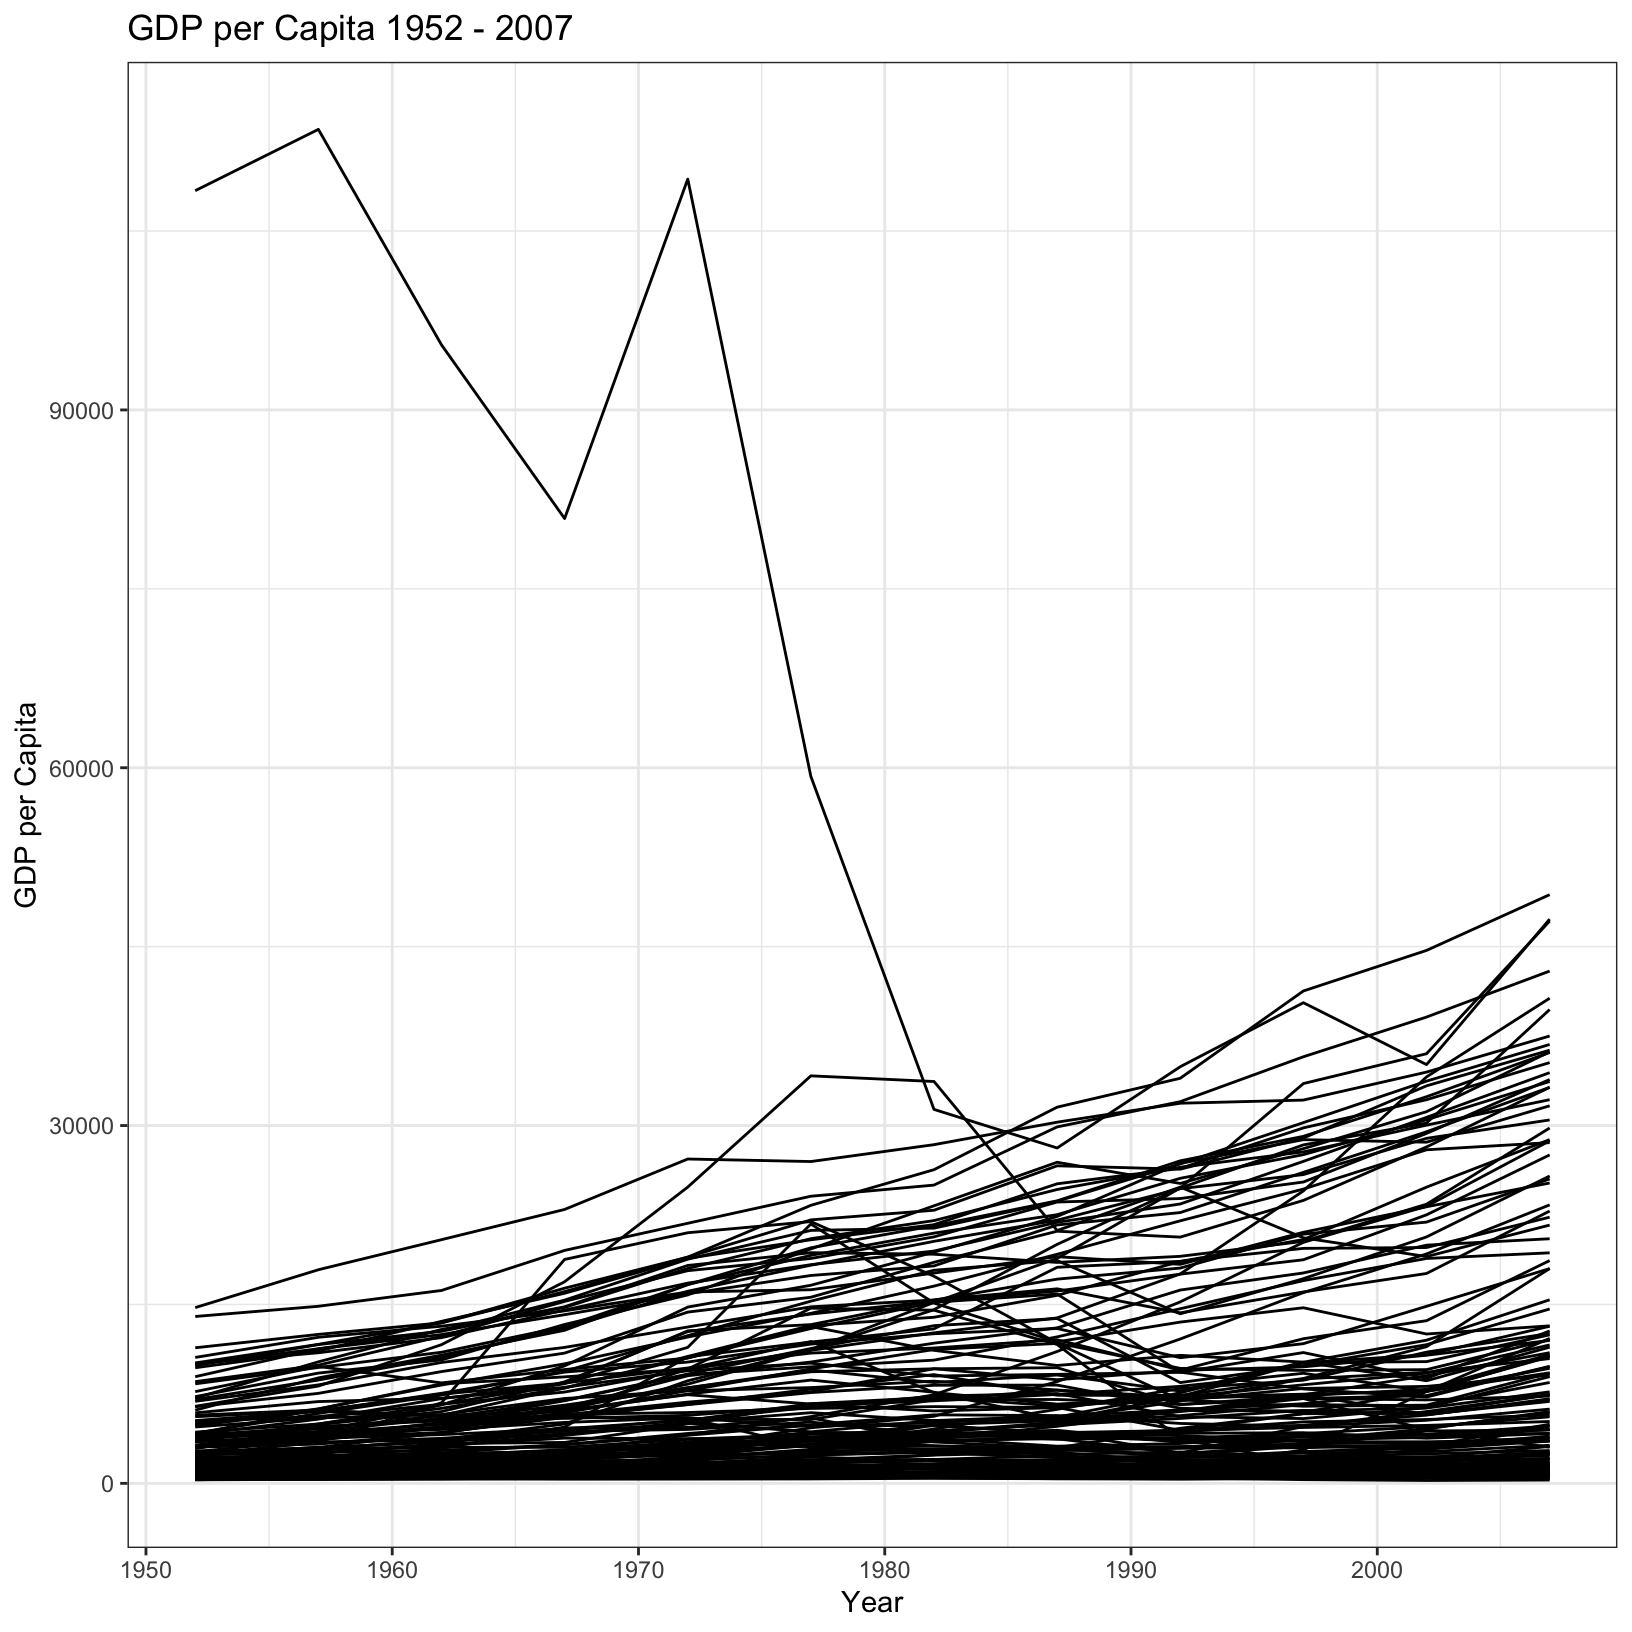
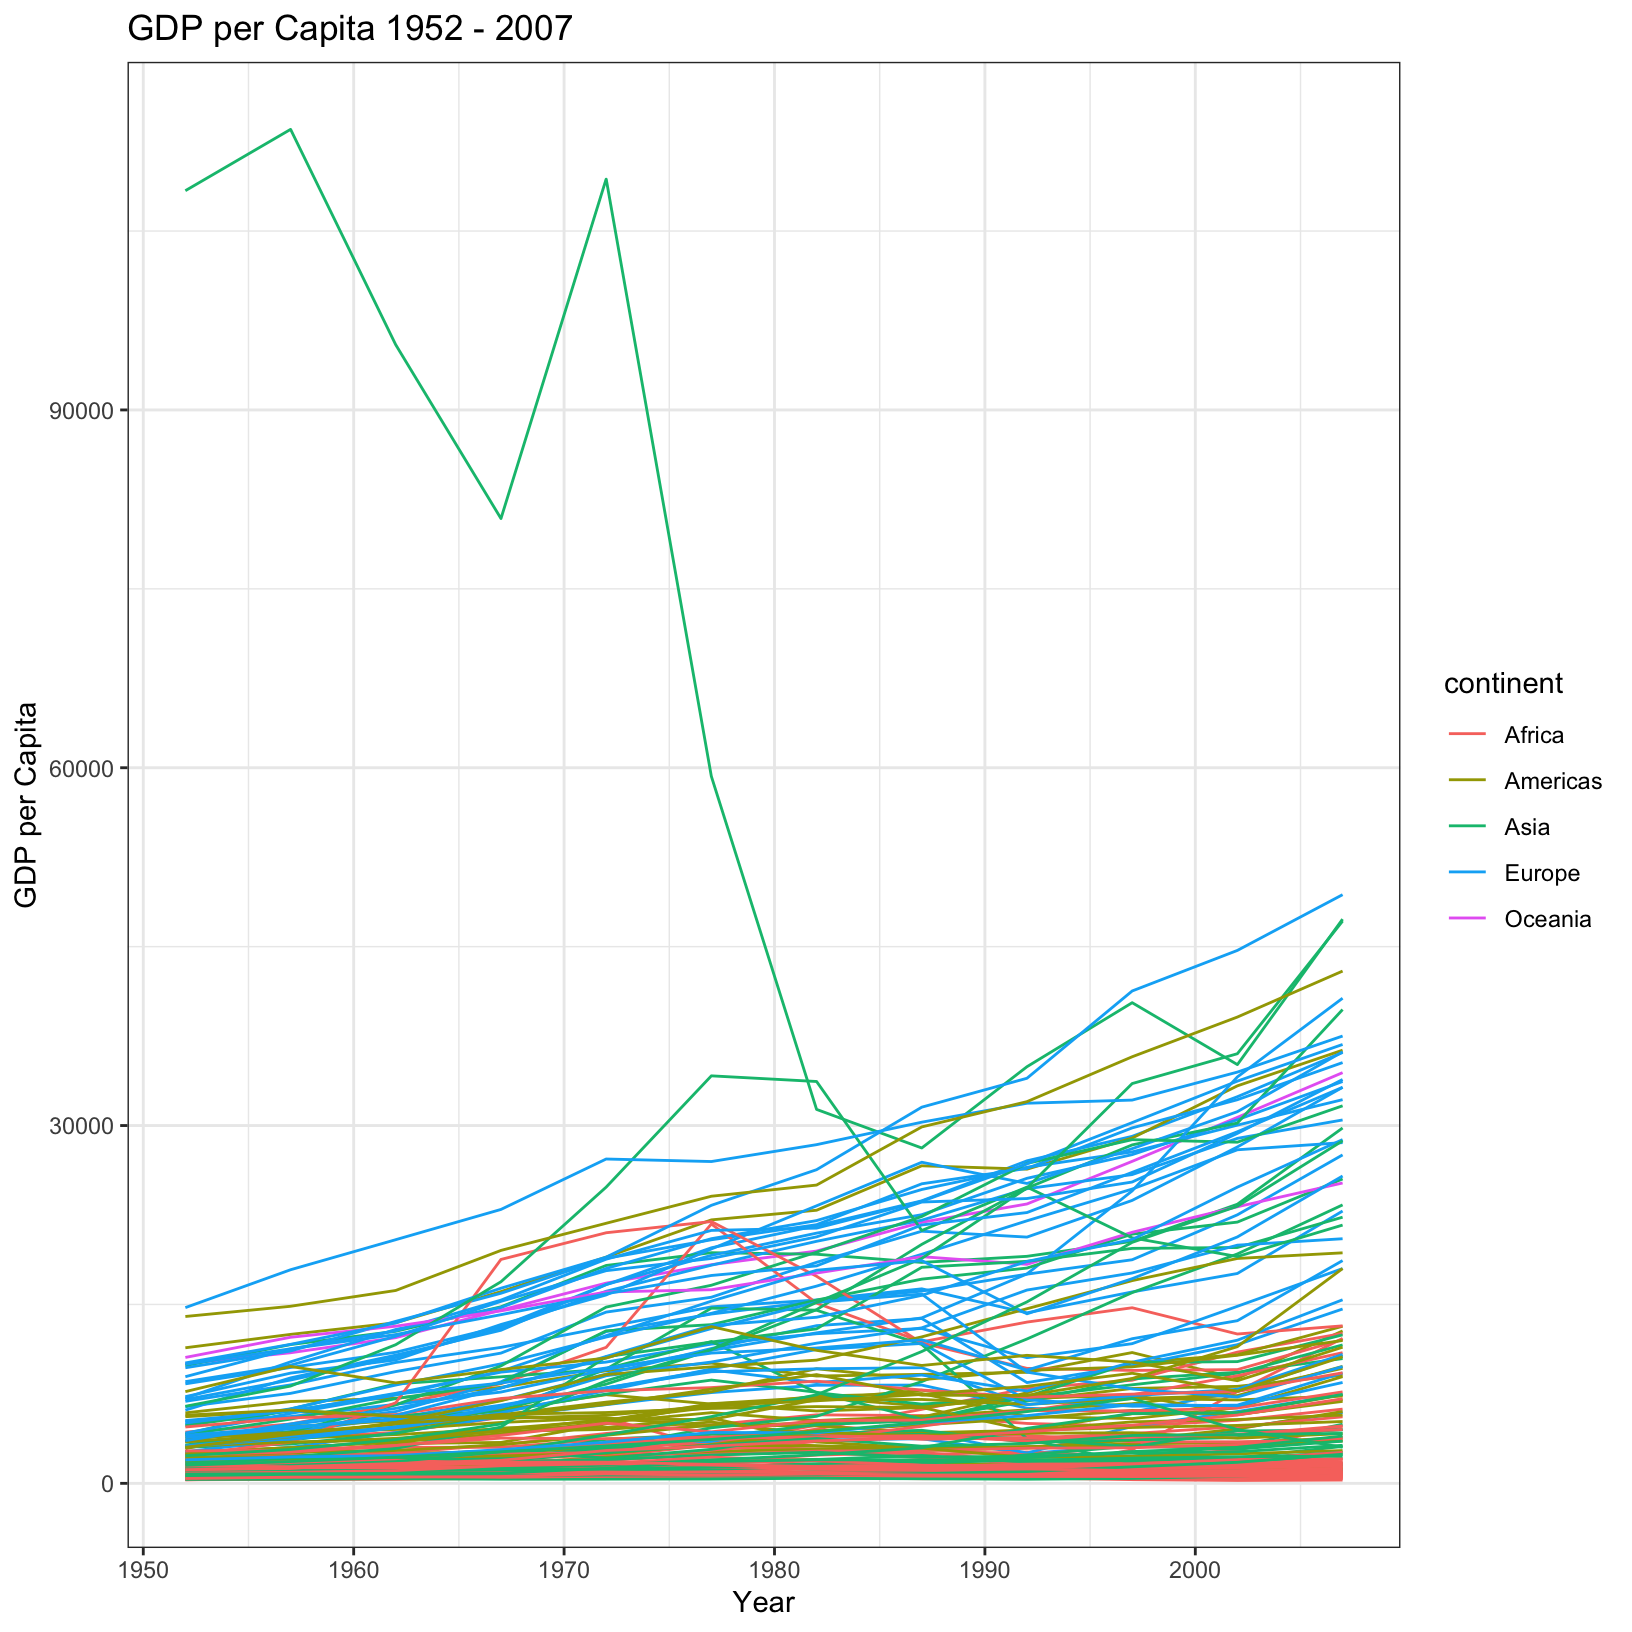
Finalize exercises with motivations

diff --git a/html/r-02-exploration-dplyr.html b/html/r-02-exploration-dplyr.html
@@ -398,7 +398,7 @@ to load the <code>gapminder_1997</code> data. Let’s do that again:</p>
 <pre class="r"><code>library(tidyverse)
 gapminder_1997 = read_csv(&#39;data/gapminder_1997.csv&#39;)</code></pre>
 <pre><code>Rows: 142 Columns: 6
-── Column specification ───────────────────────────────────────────────────────────────────────────────────────────────
+── Column specification ────────────────────────────────────────────────────────────────────────────────────
 Delimiter: &quot;,&quot;
 chr (2): country, continent
 dbl (4): year, pop, lifeExp, gdpPercap
@@ -566,15 +566,17 @@ citizens at a little over 80 years.</p>
 <p>If we wanted to use base R, we might start with the
 <code>sort()</code> function:</p>
 <pre class="r"><code>sort(gapminder_1997$lifeExp, decreasing = TRUE)</code></pre>
-<pre><code>  [1] 80.690 80.000 79.390 79.370 78.950 78.830 78.820 78.770 78.640 78.610 78.320 78.269 78.030 77.869 77.550 77.530
- [17] 77.510 77.340 77.260 77.218 77.158 77.130 76.810 76.156 76.151 76.122 76.110 75.970 75.816 75.445 75.250 75.130
- [33] 74.917 74.772 74.647 74.223 74.010 73.925 73.738 73.680 73.670 73.275 73.244 72.950 72.750 72.710 72.499 72.312
- [49] 72.262 72.232 72.146 71.973 71.938 71.555 71.527 71.096 71.040 70.736 70.672 70.533 70.457 70.426 70.320 70.313
- [65] 70.265 69.957 69.772 69.720 69.535 69.465 69.400 69.388 69.152 68.835 68.564 68.426 68.386 68.042 67.727 67.660
- [81] 67.659 67.521 67.217 66.322 66.041 63.625 63.306 62.050 61.818 61.765 60.660 60.461 60.430 60.328 60.236 60.187
- [97] 59.426 59.412 58.909 58.811 58.556 58.390 58.020 56.671 56.534 55.861 55.558 55.373 54.978 54.777 54.407 54.289
-[113] 53.378 53.157 52.962 52.556 52.199 51.573 51.455 51.313 50.324 49.903 49.402 48.466 48.245 47.991 47.495 47.464
-[129] 46.809 46.344 46.066 45.326 44.873 44.578 43.795 42.587 42.221 41.763 40.963 40.238 39.897 36.087</code></pre>
+<pre><code>  [1] 80.690 80.000 79.390 79.370 78.950 78.830 78.820 78.770 78.640 78.610 78.320 78.269 78.030 77.869
+ [15] 77.550 77.530 77.510 77.340 77.260 77.218 77.158 77.130 76.810 76.156 76.151 76.122 76.110 75.970
+ [29] 75.816 75.445 75.250 75.130 74.917 74.772 74.647 74.223 74.010 73.925 73.738 73.680 73.670 73.275
+ [43] 73.244 72.950 72.750 72.710 72.499 72.312 72.262 72.232 72.146 71.973 71.938 71.555 71.527 71.096
+ [57] 71.040 70.736 70.672 70.533 70.457 70.426 70.320 70.313 70.265 69.957 69.772 69.720 69.535 69.465
+ [71] 69.400 69.388 69.152 68.835 68.564 68.426 68.386 68.042 67.727 67.660 67.659 67.521 67.217 66.322
+ [85] 66.041 63.625 63.306 62.050 61.818 61.765 60.660 60.461 60.430 60.328 60.236 60.187 59.426 59.412
+ [99] 58.909 58.811 58.556 58.390 58.020 56.671 56.534 55.861 55.558 55.373 54.978 54.777 54.407 54.289
+[113] 53.378 53.157 52.962 52.556 52.199 51.573 51.455 51.313 50.324 49.903 49.402 48.466 48.245 47.991
+[127] 47.495 47.464 46.809 46.344 46.066 45.326 44.873 44.578 43.795 42.587 42.221 41.763 40.963 40.238
+[141] 39.897 36.087</code></pre>
 <p>But this only sorts the <code>lifeExp</code> column and drops all the
 other information in the table, so we know the highest life expectancy
 but not the country to which it belongs. There is another function
@@ -582,12 +584,12 @@ called <code>order()</code> which returns the indices of the sorting.
 Let’s call it first by itself and think about how to get what we want
 from it:</p>
 <pre class="r"><code>order(gapminder_1997$lifeExp, decreasing = TRUE)</code></pre>
-<pre><code>  [1]  67  56 123 124  58   6  65 119  45  21  96  64  91  50  92  10   7  48  30 134 114  44 135  72  33  63  35 104
- [29]  24  85 126 116 105 106  71 136  34   8  99  32  83   5  13   2 103 115  97  38  66 112 137 131  79  76 125 139
- [57]  57  82 138 110 120  25  16  26  73  37  68 107  40 130 100  15   3 132 102  93 101  61  70  86  55 128  39  51
- [85]  60  84 109  12  98  59  27  46  81  88 118 111  90   9  89  62  49 129 140  54  19  47  74 121  77  11  69 122
-[113]  42  36  29  14  20  23  52  94  17  80  43 127  41  31  78  95 142  87  22  18  53 133 117  28  75   1   4 141
-[141] 113 108</code></pre>
+<pre><code>  [1]  67  56 123 124  58   6  65 119  45  21  96  64  91  50  92  10   7  48  30 134 114  44 135  72  33
+ [26]  63  35 104  24  85 126 116 105 106  71 136  34   8  99  32  83   5  13   2 103 115  97  38  66 112
+ [51] 137 131  79  76 125 139  57  82 138 110 120  25  16  26  73  37  68 107  40 130 100  15   3 132 102
+ [76]  93 101  61  70  86  55 128  39  51  60  84 109  12  98  59  27  46  81  88 118 111  90   9  89  62
+[101]  49 129 140  54  19  47  74 121  77  11  69 122  42  36  29  14  20  23  52  94  17  80  43 127  41
+[126]  31  78  95 142  87  22  18  53 133 117  28  75   1   4 141 113 108</code></pre>
 <p>This is a vector of the row indices of <code>gapminder_1997</code>
 and the meaning of the result is that the 67th row is the entry with the
 highest <code>lifeExp</code>, the 56th row the second highest etc. We
@@ -1082,26 +1084,32 @@ sanity checking:</p>
 <p><strong>Checkpoint</strong></p>
 <blockquote>
 <h2 id="exercise-2">Exercise</h2>
-<p>The following code generates the following output:</p>
+<p>In summarizing data, it’s often useful to build a nicely formatted
+table with min, median, and max values of a variable. Below is an
+example of code to do that for the populations by continent, and
+arranged by the median population.</p>
 <pre class="r"><code>gapminder_1997 %&gt;% 
     group_by(continent) %&gt;%
     summarize(
-        min_pop = min(pop),
-        median_pop = median(pop),
-        max_pop = max(pop)
+        min_POP = min(pop),
+        median_POP = median(pop),
+        max_POP = max(pop)
     ) %&gt;% 
-    arrange(median_pop)</code></pre>
+    arrange(median_POP)</code></pre>
 <pre><code># A tibble: 5 × 4
-  continent min_pop median_pop    max_pop
+  continent min_POP median_POP    max_POP
   &lt;chr&gt;       &lt;dbl&gt;      &lt;dbl&gt;      &lt;dbl&gt;
 1 Africa     145608   7805422.  106207839
 2 Americas  1138101   7992357   272911760
 3 Europe     271192   9527017    82011073
 4 Oceania   3676187  11120715    18565243
 5 Asia       598561  21229759  1230075000</code></pre>
-<p>Try to write the code that would generate the following table:</p>
+<p>Try to write the code that would generate the following table,
+similar to the above, but for the GDP per continent instead of the
+population, and including the mean GDP in addition to the min, median,
+and max.</p>
 <pre><code># A tibble: 5 × 5
-  continent      min_gdp      mean_gdp    median_gdp max_gdp
+  continent      min_GDP      mean_GDP    median_GDP max_GDP
   &lt;chr&gt;            &lt;dbl&gt;         &lt;dbl&gt;         &lt;dbl&gt;   &lt;dbl&gt;
 1 Africa      194980183.  30023173824.   8190364646. 3.20e11
 2 Oceania   77385257446. 289304255183. 289304255183. 5.01e11

diff --git a/html/r-03-exploration-ggplot.html b/html/r-03-exploration-ggplot.html
@@ -1357,15 +1357,107 @@ that they only apply to that layer:</p>
 <p><strong>Checkpoint</strong></p>
 <blockquote>
 <h2 id="exercise-5">Exercise</h2>
-<p>The following code generates the following output:</p>
-<pre class="r"><code>ggplot(data = gapminder_data, aes(x = year, y = gdpPercap, group = country)) +
+<p>In a previous exercise we created a plot showing the trend of life
+expectancy across all countries over time, colored by the continent. THe
+following code generates a similar plot but for the GDP per capita.</p>
+<pre class="r"><code>ggplot(data = gapminder_data, aes(x = year, y = gdpPercap, color = continent, group = country)) +
     geom_line() + theme_bw() +
     labs(
         title = &#39;GDP per Capita 1952 - 2007&#39;,
         x = &#39;Year&#39;, y = &#39;GDP per Capita&#39;)</code></pre>
 <p><img src="fig/03-ggplot_exercise_example-1.png" width="816" style="display: block; margin: auto;" />
-Try to write the code that would generate the following plot:</p>
+Is this plot clear? Might it be improved by splitting up the continents
+into their own plots? Below is a plot which pulls apart the trends on
+the different continents, while still plotting each country
+individually. Try to write the code that would generate it.</p>
 <p><img src="fig/03-ggplot_exercise-1.png" width="816" style="display: block; margin: auto;" /></p>
+<p>This plot generates a lot of questions. For example:</p>
+<ol style="list-style-type: decimal">
+<li>What is the Asian country with the very high GDP per capita?</li>
+<li>What are the two countries that are outliers in the Americas?</li>
+<li>What two African countries seemed to experience strong GDP per
+capita growth through 1980, only to drop off?</li>
+<li>What two European countries overtake the long-leading GDP per capita
+country in 2007?</li>
+</ol>
+<p>All of these questions are suggested by looking at the plot, but we
+can answer them with the <code>dplyr</code> functions we’ve learned.</p>
+<ol style="list-style-type: decimal">
+<li>To find the Asian country of interest, we could simply find the
+country with the highest GDP per capita in 1952.</li>
+</ol>
+<pre class="r"><code>gapminder_data %&gt;% filter(year == 1952) %&gt;% arrange(desc(gdpPercap))</code></pre>
+<pre><code># A tibble: 142 × 6
+   country         year       pop continent lifeExp gdpPercap
+   &lt;chr&gt;          &lt;dbl&gt;     &lt;dbl&gt; &lt;chr&gt;       &lt;dbl&gt;     &lt;dbl&gt;
+ 1 Kuwait          1952    160000 Asia         55.6   108382.
+ 2 Switzerland     1952   4815000 Europe       69.6    14734.
+ 3 United States   1952 157553000 Americas     68.4    13990.
+ 4 Canada          1952  14785584 Americas     68.8    11367.
+ 5 New Zealand     1952   1994794 Oceania      69.4    10557.
+ 6 Norway          1952   3327728 Europe       72.7    10095.
+ 7 Australia       1952   8691212 Oceania      69.1    10040.
+ 8 United Kingdom  1952  50430000 Europe       69.2     9980.
+ 9 Bahrain         1952    120447 Asia         50.9     9867.
+10 Denmark         1952   4334000 Europe       70.8     9692.
+# ℹ 132 more rows</code></pre>
+<ol start="2" style="list-style-type: decimal">
+<li>We can actually use a similar tactic for this question, but we can
+pick any year based on the plot, and we must filter on the correct
+continent. Then we can observe the top two rows.</li>
+</ol>
+<pre class="r"><code>gapminder_data %&gt;% filter(year == 2007 &amp; continent == &#39;Americas&#39;) %&gt;% arrange(desc(gdpPercap))</code></pre>
+<pre><code># A tibble: 25 × 6
+   country              year       pop continent lifeExp gdpPercap
+   &lt;chr&gt;               &lt;dbl&gt;     &lt;dbl&gt; &lt;chr&gt;       &lt;dbl&gt;     &lt;dbl&gt;
+ 1 United States        2007 301139947 Americas     78.2    42952.
+ 2 Canada               2007  33390141 Americas     80.7    36319.
+ 3 Puerto Rico          2007   3942491 Americas     78.7    19329.
+ 4 Trinidad and Tobago  2007   1056608 Americas     69.8    18009.
+ 5 Chile                2007  16284741 Americas     78.6    13172.
+ 6 Argentina            2007  40301927 Americas     75.3    12779.
+ 7 Mexico               2007 108700891 Americas     76.2    11978.
+ 8 Venezuela            2007  26084662 Americas     73.7    11416.
+ 9 Uruguay              2007   3447496 Americas     76.4    10611.
+10 Panama               2007   3242173 Americas     75.5     9809.
+# ℹ 15 more rows</code></pre>
+<ol start="3" style="list-style-type: decimal">
+<li>We can use a similar approach as 2, but filter on the African
+countries, and look at the top two results.</li>
+</ol>
+<pre class="r"><code>gapminder_data %&gt;% filter(year == 1977 &amp; continent == &#39;Africa&#39;) %&gt;% arrange(desc(gdpPercap))</code></pre>
+<pre><code># A tibble: 52 × 6
+   country       year      pop continent lifeExp gdpPercap
+   &lt;chr&gt;        &lt;dbl&gt;    &lt;dbl&gt; &lt;chr&gt;       &lt;dbl&gt;     &lt;dbl&gt;
+ 1 Libya         1977  2721783 Africa       57.4    21951.
+ 2 Gabon         1977   706367 Africa       52.8    21746.
+ 3 South Africa  1977 27129932 Africa       55.5     8029.
+ 4 Algeria       1977 17152804 Africa       58.0     4910.
+ 5 Reunion       1977   492095 Africa       67.1     4320.
+ 6 Namibia       1977   977026 Africa       56.4     3876.
+ 7 Swaziland     1977   551425 Africa       52.5     3781.
+ 8 Mauritius     1977   913025 Africa       64.9     3711.
+ 9 Congo Rep.    1977  1536769 Africa       55.6     3259.
+10 Botswana      1977   781472 Africa       59.3     3215.
+# ℹ 42 more rows</code></pre>
+<ol start="4" style="list-style-type: decimal">
+<li>And again, but look at the top three results.</li>
+</ol>
+<pre class="r"><code>gapminder_data %&gt;% filter(year == 2007 &amp; continent == &#39;Europe&#39;) %&gt;% arrange(desc(gdpPercap))</code></pre>
+<pre><code># A tibble: 30 × 6
+   country      year      pop continent lifeExp gdpPercap
+   &lt;chr&gt;       &lt;dbl&gt;    &lt;dbl&gt; &lt;chr&gt;       &lt;dbl&gt;     &lt;dbl&gt;
+ 1 Norway       2007  4627926 Europe       80.2    49357.
+ 2 Ireland      2007  4109086 Europe       78.9    40676.
+ 3 Switzerland  2007  7554661 Europe       81.7    37506.
+ 4 Netherlands  2007 16570613 Europe       79.8    36798.
+ 5 Iceland      2007   301931 Europe       81.8    36181.
+ 6 Austria      2007  8199783 Europe       79.8    36126.
+ 7 Denmark      2007  5468120 Europe       78.3    35278.
+ 8 Sweden       2007  9031088 Europe       80.9    33860.
+ 9 Belgium      2007 10392226 Europe       79.4    33693.
+10 Finland      2007  5238460 Europe       79.3    33207.
+# ℹ 20 more rows</code></pre>
 </blockquote>
 </div>
 </div>
